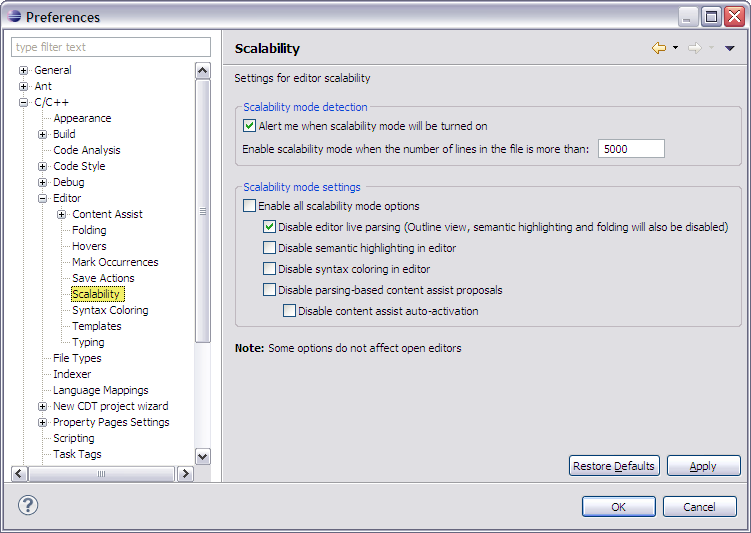
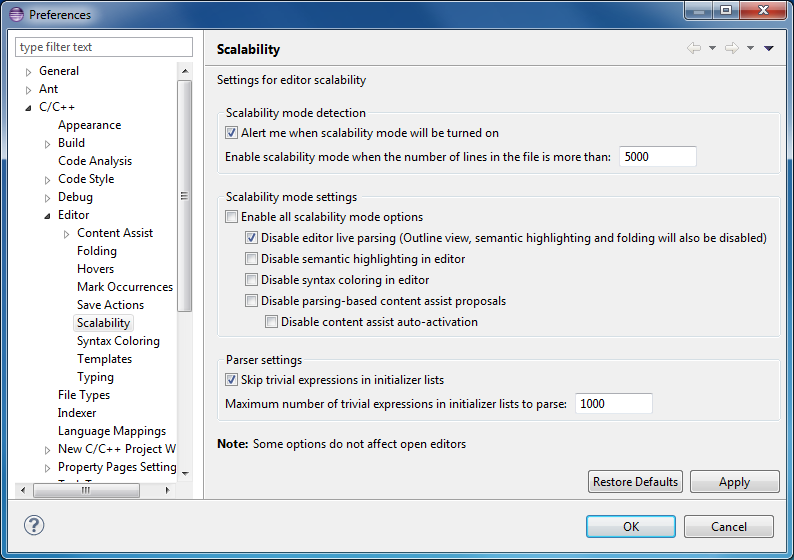
Bug 412380 Documentation for "Skip trivial initializer" flag.
Replaced the screenshot and added a short description of the new
options.

Changed region(s): [[0.0, 0.0, 1.0, 1.0], [0.2756, 0.7805, 0.5819, 0.8105]]

diff --git a/doc/org.eclipse.cdt.doc.user/reference/cdt_u_c_editor_scalability.htm b/doc/org.eclipse.cdt.doc.user/reference/cdt_u_c_editor_scalability.htm
@@ -63,6 +63,17 @@
 			<td headers="option"><strong>Disable content assist auto-activation</strong></td>
 			<td headers="description">If enabled, content assist will not be activated automatically on trigger sequences, like '.', '::' or '->'.</td>
 		</tr>
+		<tr>
+			<td headers="option"><strong>Skip trivial expressions in initializer lists</strong></td>
+			<td headers="description">If enabled, trivial initializers in initializer lists are skipped while parsing. 
+			This improves parsing and indexing performance when very large initializer lists are present.</td>
+		</tr>
+		<tr>
+			<td headers="option"><strong>Maximum number of trivial expressions in initializer lists to parse</strong></td>
+			<td headers="description">Specifies the maximum number of trivial initializers in initializer lists to parse. 
+			Any trivial initializer-clauses beyond that number are skipped. 
+			This option is only available if <i>Skip trivial expressions in initializer lists</i> is enabled.</td>
+		</tr>
 	</tbody>
 </table>
 
